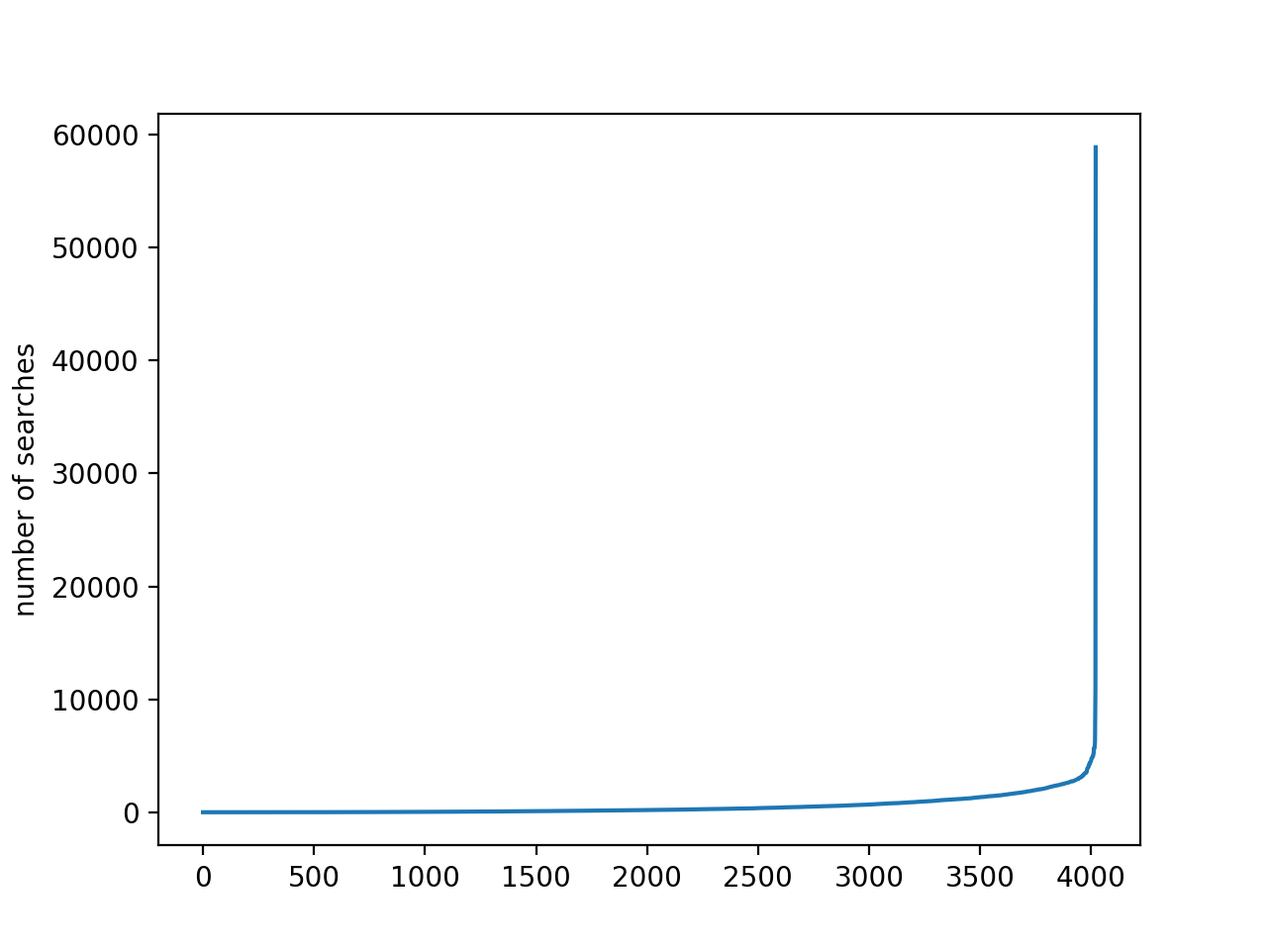
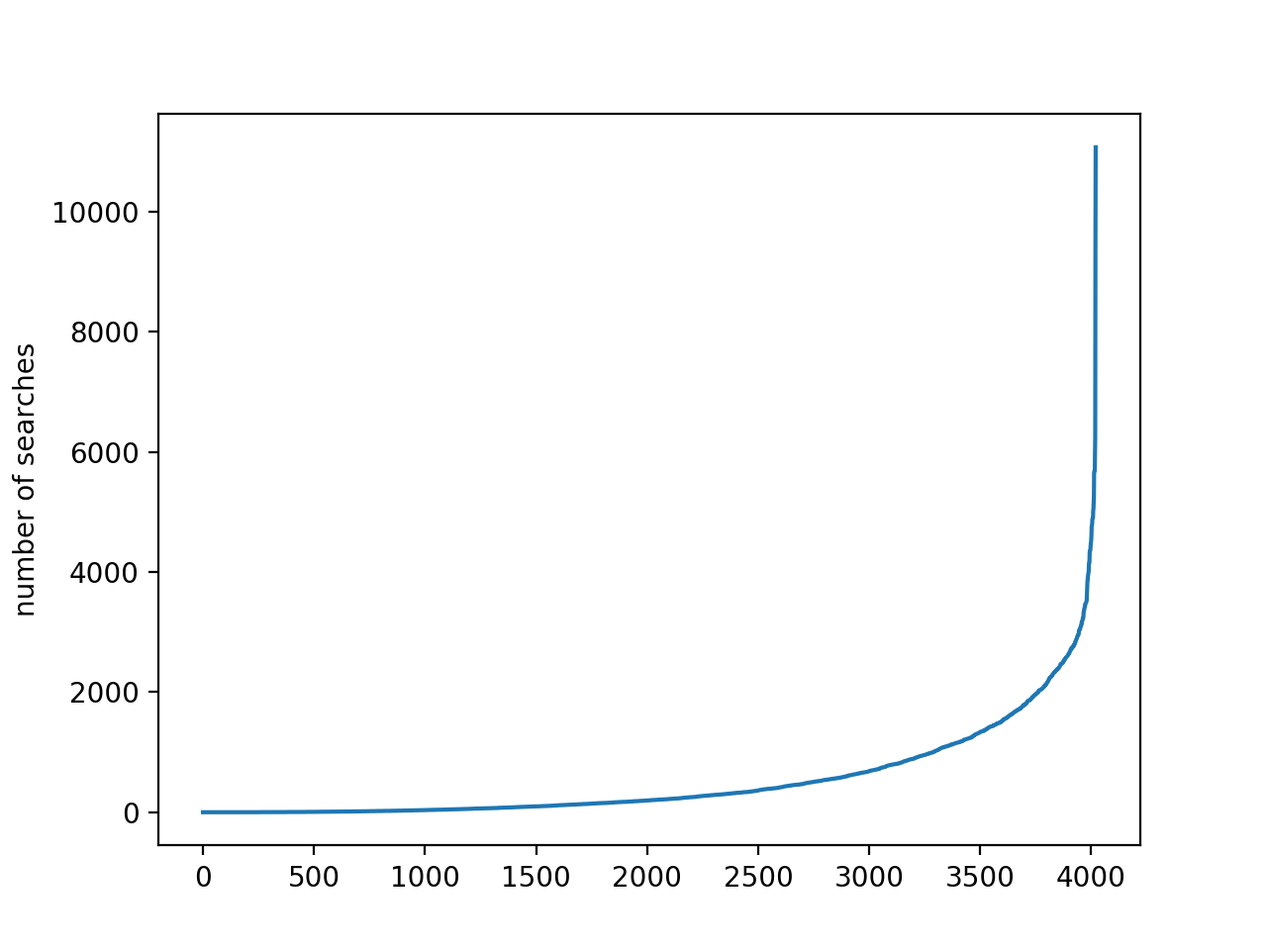
readme and a fig

diff --git a/plot.py b/plot.py
@@ -1,6 +1,6 @@
 import matplotlib.pyplot as plt
 # plt.plot([1,2,3,4])
-plt.plot([1, 1, 1, 1, 1, 1, 1, 1, 1, 1, 1, 1, 1, 1, 1, 1, 1, 1, 1, 1, 1, 1, 1, 1, 1, 1, 1, 1, 1, 1, 1, 1, 1, 1, 1, 1, 1, 1, 1, 1, 1, 1, 1, 1, 1, 1, 1, 1, 1, 1, 1, 1, 1, 1, 1, 1, 1, 1, 1, 1, 1, 1, 1, 1, 1, 1, 1, 1, 1, 1, 1, 1, 1, 1, 1, 1, 1, 1, 1, 1, 1, 1, 1, 1, 1, 1, 1, 1, 1, 1, 1, 1, 1, 1, 1, 1, 1, 1, 1, 1, 1, 1, 1, 1, 1, 1, 1, 1, 1, 1, 1, 1, 1, 1, 1, 1, 1, 1, 1, 1, 1, 1, 1, 1, 1, 1, 1, 1, 1, 1, 1, 1, 1, 1, 1, 1, 1, 1, 1, 1, 1, 1, 1, 1, 1, 1, 1, 1, 1, 1, 1, 1, 1, 1, 1, 1, 1, 1, 1, 1, 1, 1, 1, 2, 2, 2, 2, 2, 2, 2, 2, 2, 2, 2, 2, 2, 2, 2, 2, 2, 2, 2, 2, 2, 2, 2, 2, 2, 2, 2, 2, 2, 2, 2, 2, 2, 2, 2, 2, 2, 2, 2, 2, 2, 2, 2, 2, 2, 2, 2, 2, 2, 2, 2, 2, 2, 2, 2, 2, 2, 2, 2, 2, 2, 2, 2, 2, 2, 2, 2, 2, 2, 2, 2, 2, 2, 2, 2, 2, 2, 2, 2, 2, 2, 2, 2, 2, 2, 2, 2, 2, 2, 2, 2, 2, 3, 3, 3, 3, 3, 3, 3, 3, 3, 3, 3, 3, 3, 3, 3, 3, 3, 3, 3, 3, 3, 3, 3, 3, 3, 3, 3, 3, 3, 3, 3, 3, 3, 3, 3, 3, 3, 3, 3, 3, 3, 3, 3, 3, 3, 3, 3, 3, 3, 3, 3, 3, 3, 3, 3, 3, 3, 3, 3, 3, 3, 3, 4, 4, 4, 4, 4, 4, 4, 4, 4, 4, 4, 4, 4, 4, 4, 4, 4, 4, 4, 4, 4, 4, 4, 4, 4, 4, 4, 4, 4, 4, 4, 4, 4, 4, 4, 4, 4, 4, 4, 4, 4, 4, 4, 4, 4, 4, 4, 4, 4, 4, 4, 4, 4, 4, 4, 4, 4, 4, 4, 4, 4, 4, 5, 5, 5, 5, 5, 5, 5, 5, 5, 5, 5, 5, 5, 5, 5, 5, 5, 5, 5, 5, 5, 5, 5, 5, 5, 5, 5, 5, 5, 5, 5, 5, 5, 5, 5, 5, 5, 5, 5, 5, 5, 5, 5, 5, 5, 5, 5, 5, 5, 5, 5, 5, 5, 6, 6, 6, 6, 6, 6, 6, 6, 6, 6, 6, 6, 6, 6, 6, 6, 6, 6, 6, 6, 6, 6, 6, 6, 6, 6, 6, 6, 6, 6, 6, 7, 7, 7, 7, 7, 7, 7, 7, 7, 7, 7, 7, 7, 7, 7, 7, 7, 7, 7, 7, 7, 7, 7, 7, 7, 7, 7, 7, 7, 7, 7, 7, 8, 8, 8, 8, 8, 8, 8, 8, 8, 8, 8, 8, 8, 8, 8, 8, 8, 8, 8, 8, 8, 8, 8, 8, 8, 8, 8, 8, 8, 9, 9, 9, 9, 9, 9, 9, 9, 9, 9, 9, 9, 9, 9, 9, 9, 9, 9, 9, 9, 9, 9, 9, 9, 9, 9, 9, 9, 10, 10, 10, 10, 10, 10, 10, 10, 10, 10, 10, 10, 10, 10, 10, 10, 10, 10, 10, 10, 10, 10, 11, 11, 11, 11, 11, 11, 11, 11, 11, 11, 11, 11, 11, 11, 11, 11, 11, 11, 11, 11, 11, 11, 11, 11, 11, 11, 11, 11, 11, 12, 12, 12, 12, 12, 12, 12, 12, 12, 12, 12, 12, 12, 12, 12, 12, 12, 12, 12, 12, 12, 12, 12, 13, 13, 13, 13, 13, 13, 13, 13, 13, 13, 13, 13, 13, 13, 13, 13, 13, 13, 13, 13, 13, 13, 13, 14, 14, 14, 14, 14, 14, 14, 14, 14, 14, 14, 14, 14, 14, 14, 14, 14, 14, 14, 14, 14, 14, 14, 14, 14, 14, 15, 15, 15, 15, 15, 15, 15, 15, 15, 15, 15, 15, 15, 15, 15, 15, 15, 15, 15, 15, 16, 16, 16, 16, 16, 16, 16, 16, 16, 16, 16, 16, 16, 16, 16, 16, 16, 16, 16, 16, 17, 17, 17, 17, 17, 17, 17, 17, 17, 17, 17, 17, 17, 17, 17, 17, 18, 18, 18, 18, 18, 18, 18, 18, 18, 18, 18, 18, 18, 18, 18, 18, 18, 18, 19, 19, 19, 19, 19, 19, 19, 19, 19, 19, 19, 19, 19, 19, 19, 19, 20, 20, 20, 20, 20, 20, 20, 20, 20, 20, 20, 20, 20, 20, 20, 21, 21, 21, 21, 21, 21, 21, 21, 21, 21, 21, 21, 21, 21, 21, 21, 21, 21, 21, 22, 22, 22, 22, 22, 22, 22, 22, 22, 22, 22, 22, 22, 23, 23, 23, 23, 23, 23, 23, 23, 23, 23, 23, 23, 23, 24, 24, 24, 24, 24, 24, 24, 24, 24, 24, 24, 24, 24, 24, 24, 24, 24, 24, 24, 24, 24, 24, 25, 25, 25, 25, 25, 25, 25, 25, 25, 25, 25, 25, 25, 25, 25, 26, 26, 26, 26, 26, 26, 26, 26, 26, 26, 26, 27, 27, 27, 27, 27, 27, 27, 27, 27, 27, 27, 27, 28, 28, 28, 28, 28, 28, 28, 28, 28, 28, 28, 28, 28, 28, 29, 29, 29, 29, 29, 29, 29, 29, 30, 30, 30, 30, 30, 30, 30, 30, 30, 30, 30, 30, 30, 30, 30, 31, 31, 31, 31, 31, 31, 31, 31, 31, 31, 31, 31, 31, 31, 32, 32, 32, 32, 32, 32, 32, 32, 32, 32, 32, 33, 33, 33, 33, 33, 33, 33, 33, 33, 34, 34, 34, 34, 34, 34, 34, 34, 34, 34, 34, 34, 34, 34, 34, 34, 34, 35, 35, 35, 35, 35, 35, 35, 35, 35, 35, 35, 35, 35, 35, 36, 36, 36, 36, 36, 36, 36, 36, 36, 37, 37, 37, 37, 37, 37, 37, 37, 37, 37, 37, 37, 37, 38, 38, 38, 39, 39, 39, 39, 39, 39, 39, 39, 39, 39, 39, 39, 39, 39, 40, 40, 40, 40, 40, 40, 40, 40, 40, 41, 41, 41, 41, 41, 41, 41, 41, 41, 41, 41, 41, 41, 42, 42, 42, 42, 42, 42, 42, 42, 42, 43, 43, 43, 43, 43, 43, 43, 43, 43, 43, 43, 43, 44, 44, 44, 44, 44, 44, 44, 44, 44, 44, 44, 44, 44, 45, 45, 45, 45, 45, 45, 45, 45, 45, 45, 45, 46, 46, 46, 46, 46, 46, 46, 46, 47, 47, 47, 47, 47, 47, 47, 47, 47, 47, 48, 48, 48, 49, 49, 49, 49, 49, 49, 49, 49, 49, 49, 50, 50, 50, 50, 50, 50, 50, 50, 50, 50, 50, 50, 51, 51, 51, 51, 51, 51, 51, 51, 51, 51, 51, 52, 52, 52, 52, 52, 52, 52, 52, 52, 52, 53, 53, 53, 53, 53, 53, 53, 53, 53, 54, 54, 54, 54, 54, 54, 55, 55, 55, 55, 55, 55, 55, 55, 55, 55, 55, 55, 55, 56, 56, 56, 56, 56, 56, 56, 56, 57, 57, 57, 57, 57, 57, 57, 58, 58, 58, 58, 58, 58, 59, 59, 59, 59, 60, 60, 60, 60, 60, 60, 60, 61, 61, 61, 61, 61, 61, 61, 61, 61, 61, 62, 62, 62, 62, 62, 62, 62, 62, 62, 63, 63, 63, 64, 64, 64, 64, 64, 64, 64, 64, 64, 64, 64, 64, 64, 65, 65, 65, 65, 65, 65, 65, 66, 66, 66, 66, 66, 66, 66, 66, 66, 66, 66, 67, 67, 67, 67, 67, 67, 67, 67, 67, 68, 68, 68, 68, 68, 68, 68, 68, 68, 68, 68, 68, 68, 68, 69, 69, 69, 69, 69, 70, 70, 70, 70, 70, 70, 70, 70, 70, 70, 70, 71, 71, 71, 71, 71, 71, 71, 71, 72, 72, 72, 72, 72, 72, 72, 72, 72, 72, 72, 72, 72, 74, 75, 75, 75, 75, 75, 75, 76, 76, 76, 76, 76, 76, 77, 77, 77, 77, 77, 77, 77, 77, 77, 77, 77, 77, 78, 78, 78, 78, 78, 78, 78, 78, 78, 78, 79, 79, 79, 80, 80, 80, 80, 80, 80, 80, 80, 80, 80, 81, 81, 81, 81, 81, 81, 81, 81, 81, 81, 82, 82, 82, 82, 82, 82, 83, 83, 83, 83, 83, 84, 84, 84, 84, 85, 85, 85, 85, 85, 85, 85, 85, 86, 86, 86, 86, 87, 87, 87, 87, 87, 87, 87, 88, 88, 88, 88, 89, 89, 89, 89, 89, 89, 89, 90, 90, 90, 90, 90, 90, 90, 90, 90, 91, 91, 91, 91, 91, 91, 91, 91, 91, 91, 92, 92, 92, 93, 93, 93, 93, 93, 93, 93, 94, 94, 94, 94, 94, 95, 95, 95, 95, 95, 95, 95, 95, 95, 95, 96, 96, 96, 96, 96, 97, 97, 97, 97, 97, 97, 97, 97, 97, 98, 98, 98, 98, 98, 98, 98, 99, 99, 99, 99, 99, 99, 100, 100, 100, 100, 100, 100, 100, 100, 100, 100, 100, 100, 100, 101, 101, 101, 101, 101, 101, 102, 102, 102, 102, 103, 103, 103, 103, 103, 103, 103, 104, 104, 104, 104, 104, 105, 105, 105, 105, 105, 105, 105, 106, 106, 106, 106, 106, 106, 106, 106, 107, 107, 107, 107, 107, 108, 108, 108, 108, 108, 108, 109, 109, 109, 109, 109, 110, 110, 110, 110, 110, 110, 110, 111, 111, 111, 111, 112, 112, 112, 113, 113, 113, 113, 114, 114, 114, 114, 114, 114, 115, 115, 116, 116, 116, 117, 117, 117, 117, 117, 118, 118, 118, 118, 118, 118, 119, 119, 119, 119, 119, 120, 120, 120, 120, 120, 120, 120, 121, 121, 121, 121, 121, 121, 121, 122, 122, 122, 122, 122, 122, 123, 123, 123, 124, 124, 124, 124, 124, 125, 125, 125, 125, 125, 126, 126, 126, 126, 126, 127, 127, 127, 127, 127, 127, 127, 127, 127, 128, 128, 128, 128, 128, 128, 128, 128, 128, 128, 129, 129, 129, 129, 129, 129, 129, 130, 130, 131, 131, 131, 132, 132, 132, 132, 133, 133, 133, 133, 133, 133, 133, 134, 134, 134, 134, 134, 134, 135, 135, 135, 135, 135, 136, 137, 137, 137, 137, 137, 137, 137, 137, 137, 138, 138, 138, 138, 138, 138, 139, 139, 139, 139, 139, 139, 139, 139, 139, 139, 139, 140, 141, 141, 141, 141, 142, 142, 142, 143, 143, 143, 143, 144, 144, 144, 144, 145, 145, 145, 146, 146, 146, 147, 147, 147, 147, 147, 147, 147, 147, 147, 147, 148, 148, 148, 148, 148, 149, 149, 149, 149, 149, 150, 150, 150, 151, 151, 151, 151, 151, 151, 151, 152, 152, 152, 153, 153, 153, 153, 153, 153, 153, 154, 154, 154, 154, 154, 154, 155, 155, 155, 155, 155, 155, 155, 155, 155, 156, 156, 156, 156, 156, 156, 156, 157, 157, 157, 157, 157, 157, 158, 158, 158, 159, 159, 159, 159, 159, 159, 160, 160, 160, 161, 161, 161, 161, 162, 162, 162, 162, 163, 163, 163, 163, 164, 164, 164, 165, 165, 165, 166, 166, 166, 166, 167, 167, 167, 168, 168, 168, 168, 168, 168, 168, 168, 168, 168, 169, 170, 170, 170, 170, 170, 170, 171, 171, 171, 171, 171, 171, 172, 172, 172, 172, 172, 173, 173, 173, 174, 174, 174, 174, 174, 174, 174, 174, 175, 175, 175, 175, 175, 175, 175, 175, 175, 176, 176, 176, 176, 176, 177, 178, 178, 178, 178, 178, 178, 179, 179, 179, 179, 179, 179, 180, 180, 180, 180, 180, 180, 180, 180, 180, 181, 182, 182, 183, 183, 184, 184, 185, 185, 185, 185, 185, 185, 185, 185, 186, 186, 186, 186, 186, 186, 187, 187, 187, 187, 188, 188, 188, 188, 189, 189, 189, 190, 190, 190, 191, 191, 191, 191, 191, 191, 191, 192, 192, 192, 192, 192, 192, 192, 192, 193, 193, 195, 195, 195, 195, 195, 195, 195, 196, 196, 197, 197, 197, 198, 198, 198, 198, 198, 198, 198, 198, 199, 199, 199, 200, 200, 200, 200, 201, 202, 202, 202, 202, 202, 203, 203, 203, 204, 204, 204, 204, 205, 205, 205, 205, 205, 205, 205, 206, 206, 206, 206, 206, 207, 207, 207, 208, 208, 208, 209, 209, 209, 210, 210, 210, 210, 210, 211, 211, 211, 211, 212, 212, 212, 212, 212, 213, 213, 213, 213, 213, 213, 213, 213, 214, 214, 214, 214, 214, 215, 215, 216, 216, 216, 216, 216, 217, 217, 217, 217, 217, 218, 218, 218, 218, 219, 219, 219, 219, 220, 221, 221, 221, 221, 222, 222, 222, 223, 223, 223, 223, 224, 224, 224, 225, 225, 225, 226, 226, 226, 226, 226, 227, 227, 227, 227, 228, 228, 228, 229, 229, 229, 229, 229, 229, 230, 230, 230, 230, 230, 230, 231, 231, 231, 231, 233, 233, 233, 233, 234, 234, 234, 235, 235, 235, 235, 235, 235, 236, 236, 237, 238, 239, 239, 239, 240, 241, 241, 242, 242, 242, 242, 242, 243, 243, 243, 243, 244, 245, 245, 246, 246, 246, 247, 247, 247, 247, 247, 248, 248, 248, 249, 249, 249, 250, 251, 251, 251, 251, 251, 252, 252, 252, 252, 252, 253, 253, 253, 253, 254, 254, 254, 254, 255, 255, 256, 256, 256, 256, 256, 257, 257, 257, 258, 258, 258, 259, 260, 260, 261, 262, 263, 263, 264, 264, 264, 264, 266, 266, 267, 267, 267, 268, 268, 268, 269, 269, 269, 269, 270, 270, 271, 271, 272, 272, 272, 272, 273, 273, 274, 274, 274, 274, 275, 275, 276, 276, 276, 277, 277, 277, 278, 278, 278, 278, 278, 278, 279, 279, 279, 280, 280, 281, 281, 282, 282, 282, 282, 283, 284, 284, 284, 284, 284, 285, 285, 285, 286, 286, 286, 287, 287, 287, 288, 288, 289, 289, 290, 290, 290, 290, 291, 291, 292, 292, 292, 292, 292, 292, 292, 293, 293, 293, 293, 293, 293, 295, 295, 296, 296, 296, 296, 296, 296, 296, 297, 297, 298, 298, 298, 298, 299, 299, 299, 300, 300, 301, 301, 301, 301, 302, 302, 302, 302, 303, 304, 304, 305, 305, 305, 306, 307, 307, 307, 307, 308, 309, 309, 309, 309, 309, 310, 310, 310, 311, 311, 311, 311, 312, 312, 314, 314, 315, 315, 315, 316, 316, 316, 316, 317, 317, 318, 318, 318, 318, 319, 319, 319, 320, 320, 321, 321, 321, 322, 323, 323, 324, 324, 324, 324, 325, 325, 325, 326, 326, 326, 326, 326, 327, 327, 327, 327, 327, 327, 327, 328, 329, 329, 330, 330, 330, 331, 331, 331, 333, 333, 334, 334, 334, 334, 335, 335, 336, 336, 336, 336, 336, 337, 337, 337, 337, 338, 338, 338, 338, 339, 339, 339, 340, 340, 341, 341, 341, 341, 343, 343, 343, 343, 345, 345, 345, 346, 346, 348, 348, 348, 349, 349, 349, 349, 350, 351, 351, 352, 352, 352, 354, 354, 355, 355, 356, 356, 357, 357, 357, 357, 359, 360, 360, 361, 361, 361, 362, 362, 364, 365, 365, 366, 368, 369, 370, 371, 371, 372, 373, 374, 374, 374, 375, 375, 375, 376, 377, 378, 378, 380, 381, 381, 382, 382, 382, 382, 382, 383, 383, 383, 384, 385, 385, 387, 387, 388, 388, 388, 388, 389, 390, 390, 391, 391, 391, 391, 391, 392, 392, 392, 393, 393, 393, 393, 394, 394, 395, 395, 395, 395, 397, 397, 397, 397, 398, 398, 398, 399, 399, 399, 400, 401, 401, 401, 402, 402, 402, 403, 403, 403, 403, 404, 405, 405, 406, 407, 408, 408, 408, 408, 408, 410, 411, 414, 414, 415, 416, 416, 416, 417, 417, 418, 419, 419, 419, 420, 421, 422, 424, 425, 426, 426, 426, 427, 428, 429, 431, 431, 431, 432, 434, 434, 435, 435, 435, 436, 436, 436, 437, 438, 439, 439, 441, 441, 441, 442, 442, 442, 442, 443, 444, 444, 445, 445, 445, 446, 448, 448, 449, 450, 450, 451, 451, 452, 452, 452, 453, 453, 454, 455, 455, 455, 455, 456, 456, 457, 458, 458, 458, 459, 459, 459, 459, 460, 460, 460, 460, 461, 461, 461, 461, 461, 462, 462, 463, 464, 465, 465, 466, 467, 467, 468, 468, 468, 468, 470, 471, 472, 472, 472, 473, 474, 475, 476, 476, 476, 479, 480, 481, 482, 482, 484, 484, 485, 486, 487, 488, 488, 489, 490, 490, 492, 492, 493, 494, 494, 495, 495, 495, 495, 495, 496, 496, 497, 500, 501, 501, 501, 501, 501, 501, 502, 502, 503, 503, 506, 506, 508, 509, 509, 510, 510, 510, 511, 511, 512, 513, 513, 514, 514, 514, 514, 515, 515, 515, 515, 517, 517, 520, 520, 520, 520, 520, 521, 521, 521, 522, 522, 523, 523, 524, 524, 526, 528, 528, 529, 530, 530, 532, 532, 534, 535, 535, 536, 537, 537, 538, 538, 539, 539, 540, 541, 541, 541, 542, 542, 542, 543, 543, 543, 543, 545, 546, 546, 547, 547, 548, 548, 548, 549, 549, 550, 550, 551, 554, 555, 555, 555, 556, 556, 557, 557, 557, 558, 559, 559, 560, 560, 561, 561, 561, 561, 561, 563, 563, 563, 563, 564, 565, 568, 568, 569, 569, 570, 570, 570, 570, 570, 570, 570, 571, 572, 573, 574, 574, 574, 577, 578, 579, 579, 579, 579, 580, 582, 582, 582, 583, 583, 584, 586, 586, 586, 589, 590, 592, 592, 593, 593, 593, 594, 594, 594, 595, 596, 598, 598, 599, 601, 602, 606, 606, 606, 608, 609, 611, 611, 613, 613, 615, 615, 616, 616, 618, 618, 618, 618, 619, 620, 620, 622, 623, 624, 624, 626, 627, 628, 629, 631, 631, 631, 632, 632, 632, 632, 632, 633, 634, 636, 637, 638, 638, 639, 640, 640, 641, 641, 642, 643, 645, 646, 649, 649, 650, 650, 650, 651, 651, 652, 652, 655, 655, 655, 656, 658, 658, 658, 659, 659, 661, 661, 661, 662, 663, 663, 665, 665, 665, 666, 667, 667, 667, 668, 669, 669, 670, 671, 672, 672, 672, 673, 675, 676, 677, 678, 679, 680, 680, 681, 683, 684, 688, 690, 690, 692, 693, 693, 694, 695, 696, 698, 698, 699, 699, 699, 700, 701, 702, 702, 703, 703, 704, 706, 706, 706, 707, 708, 709, 712, 712, 712, 713, 714, 715, 715, 715, 715, 716, 717, 719, 719, 721, 724, 726, 726, 726, 728, 733, 733, 735, 736, 738, 739, 741, 741, 744, 745, 745, 746, 747, 748, 748, 749, 749, 751, 752, 752, 752, 753, 754, 755, 756, 756, 760, 762, 768, 769, 769, 771, 774, 775, 775, 776, 777, 777, 780, 780, 782, 783, 785, 785, 785, 787, 787, 787, 788, 789, 789, 791, 792, 793, 795, 795, 796, 796, 796, 796, 797, 798, 799, 800, 800, 800, 801, 801, 802, 802, 804, 805, 805, 805, 806, 808, 808, 808, 808, 808, 809, 811, 811, 814, 814, 814, 817, 818, 818, 818, 820, 823, 824, 824, 826, 827, 830, 830, 830, 831, 832, 834, 835, 838, 840, 842, 843, 845, 846, 847, 850, 853, 853, 853, 853, 855, 855, 855, 856, 858, 859, 860, 863, 865, 865, 866, 866, 868, 869, 873, 874, 876, 879, 879, 879, 879, 880, 880, 882, 882, 883, 886, 886, 886, 887, 887, 888, 888, 888, 889, 889, 892, 895, 895, 897, 897, 899, 899, 900, 901, 905, 911, 912, 913, 913, 915, 916, 917, 917, 917, 919, 920, 922, 926, 927, 927, 928, 928, 930, 930, 933, 936, 938, 938, 938, 939, 939, 940, 942, 943, 943, 945, 945, 946, 948, 948, 949, 950, 951, 953, 954, 954, 956, 956, 956, 958, 961, 962, 962, 964, 964, 967, 968, 969, 971, 971, 971, 973, 976, 977, 977, 980, 980, 982, 984, 984, 986, 987, 988, 989, 990, 991, 991, 991, 993, 993, 996, 997, 998, 1002, 1003, 1003, 1005, 1007, 1007, 1010, 1010, 1012, 1017, 1018, 1021, 1024, 1025, 1026, 1026, 1028, 1029, 1030, 1032, 1033, 1034, 1037, 1042, 1043, 1043, 1046, 1048, 1050, 1051, 1052, 1053, 1058, 1060, 1063, 1066, 1069, 1070, 1071, 1073, 1073, 1073, 1075, 1077, 1079, 1080, 1081, 1081, 1081, 1084, 1084, 1087, 1088, 1090, 1090, 1090, 1090, 1093, 1095, 1096, 1096, 1098, 1099, 1099, 1101, 1101, 1104, 1107, 1107, 1107, 1108, 1108, 1109, 1111, 1111, 1115, 1118, 1119, 1120, 1121, 1122, 1125, 1125, 1126, 1126, 1131, 1132, 1133, 1133, 1133, 1135, 1137, 1137, 1137, 1138, 1140, 1143, 1143, 1144, 1147, 1149, 1152, 1152, 1153, 1154, 1154, 1155, 1156, 1158, 1159, 1159, 1160, 1160, 1161, 1162, 1163, 1165, 1166, 1168, 1169, 1169, 1173, 1173, 1175, 1177, 1177, 1178, 1178, 1182, 1182, 1183, 1184, 1185, 1187, 1187, 1188, 1189, 1198, 1202, 1205, 1207, 1207, 1207, 1210, 1210, 1211, 1211, 1214, 1215, 1216, 1217, 1217, 1219, 1221, 1221, 1222, 1224, 1226, 1228, 1229, 1230, 1231, 1232, 1233, 1234, 1235, 1235, 1238, 1240, 1243, 1244, 1244, 1244, 1245, 1245, 1249, 1250, 1253, 1262, 1264, 1269, 1272, 1273, 1273, 1274, 1276, 1279, 1286, 1287, 1290, 1291, 1296, 1298, 1300, 1302, 1303, 1305, 1305, 1306, 1308, 1311, 1312, 1312, 1317, 1317, 1319, 1320, 1321, 1321, 1326, 1328, 1331, 1332, 1337, 1338, 1342, 1342, 1343, 1343, 1346, 1347, 1347, 1348, 1349, 1352, 1353, 1354, 1355, 1355, 1355, 1361, 1361, 1365, 1366, 1371, 1371, 1373, 1376, 1379, 1379, 1382, 1384, 1384, 1393, 1394, 1396, 1398, 1400, 1402, 1403, 1407, 1411, 1411, 1414, 1419, 1422, 1424, 1425, 1426, 1426, 1426, 1427, 1428, 1430, 1431, 1431, 1432, 1433, 1435, 1436, 1437, 1441, 1441, 1447, 1448, 1452, 1452, 1453, 1454, 1455, 1458, 1462, 1464, 1466, 1468, 1468, 1468, 1468, 1476, 1477, 1478, 1479, 1480, 1481, 1484, 1485, 1486, 1486, 1489, 1489, 1495, 1496, 1496, 1498, 1498, 1499, 1504, 1510, 1510, 1514, 1515, 1516, 1521, 1523, 1524, 1534, 1536, 1539, 1544, 1545, 1554, 1555, 1555, 1556, 1557, 1557, 1559, 1562, 1565, 1565, 1565, 1567, 1576, 1577, 1578, 1578, 1580, 1583, 1588, 1597, 1599, 1600, 1604, 1609, 1609, 1611, 1614, 1615, 1618, 1622, 1622, 1626, 1627, 1628, 1630, 1633, 1633, 1639, 1641, 1647, 1648, 1651, 1656, 1659, 1664, 1665, 1666, 1669, 1673, 1674, 1675, 1681, 1684, 1684, 1685, 1687, 1690, 1692, 1697, 1697, 1699, 1701, 1707, 1710, 1711, 1713, 1713, 1714, 1716, 1719, 1719, 1723, 1724, 1724, 1725, 1727, 1734, 1739, 1745, 1751, 1752, 1755, 1756, 1762, 1768, 1770, 1772, 1773, 1781, 1782, 1782, 1792, 1792, 1793, 1795, 1795, 1798, 1805, 1806, 1808, 1818, 1819, 1823, 1826, 1831, 1842, 1851, 1853, 1854, 1855, 1857, 1858, 1860, 1862, 1864, 1864, 1865, 1865, 1875, 1877, 1879, 1880, 1885, 1892, 1897, 1900, 1903, 1916, 1918, 1918, 1921, 1923, 1930, 1934, 1934, 1938, 1945, 1949, 1951, 1954, 1958, 1962, 1964, 1964, 1964, 1967, 1978, 1983, 1985, 1986, 1990, 1990, 1992, 1997, 1998, 2004, 2023, 2023, 2028, 2032, 2033, 2034, 2035, 2036, 2036, 2038, 2040, 2042, 2045, 2052, 2054, 2057, 2058, 2062, 2068, 2070, 2074, 2079, 2080, 2084, 2093, 2102, 2102, 2104, 2110, 2110, 2112, 2114, 2126, 2126, 2136, 2143, 2146, 2147, 2154, 2167, 2171, 2177, 2177, 2187, 2194, 2203, 2211, 2216, 2229, 2229, 2231, 2240, 2248, 2251, 2253, 2253, 2255, 2257, 2261, 2266, 2274, 2285, 2286, 2288, 2297, 2301, 2307, 2318, 2321, 2322, 2325, 2329, 2336, 2336, 2342, 2351, 2353, 2353, 2358, 2364, 2368, 2368, 2370, 2380, 2380, 2387, 2389, 2391, 2394, 2394, 2403, 2404, 2411, 2416, 2421, 2424, 2433, 2449, 2459, 2466, 2467, 2469, 2470, 2476, 2477, 2480, 2481, 2483, 2483, 2494, 2498, 2500, 2519, 2521, 2525, 2537, 2538, 2542, 2544, 2556, 2557, 2563, 2573, 2576, 2577, 2582, 2587, 2591, 2594, 2597, 2602, 2608, 2614, 2623, 2635, 2637, 2639, 2640, 2651, 2655, 2670, 2679, 2687, 2691, 2712, 2713, 2720, 2722, 2724, 2728, 2729, 2731, 2753, 2753, 2757, 2758, 2759, 2765, 2773, 2786, 2786, 2795, 2801, 2802, 2826, 2833, 2847, 2851, 2853, 2870, 2878, 2890, 2894, 2907, 2920, 2937, 2939, 2945, 2951, 2957, 2958, 2984, 3029, 3032, 3040, 3044, 3046, 3047, 3072, 3084, 3090, 3111, 3112, 3119, 3164, 3164, 3180, 3203, 3210, 3220, 3231, 3233, 3271, 3336, 3347, 3377, 3383, 3407, 3437, 3444, 3446, 3472, 3479, 3483, 3495, 3503, 3510, 3559, 3653, 3754, 3849, 3863, 3926, 3956, 3976, 3997, 4037, 4153, 4154, 4164, 4326, 4355, 4357, 4363, 4437, 4475, 4497, 4544, 4626, 4758, 4772, 4796, 4871, 4890, 4901, 4905, 5032, 5048, 5155, 5250, 5656, 5676, 5679, 5685, 6040, 6256, 9456, 11071, 58888])
+plt.plot([1, 1, 1, 1, 1, 1, 1, 1, 1, 1, 1, 1, 1, 1, 1, 1, 1, 1, 1, 1, 1, 1, 1, 1, 1, 1, 1, 1, 1, 1, 1, 1, 1, 1, 1, 1, 1, 1, 1, 1, 1, 1, 1, 1, 1, 1, 1, 1, 1, 1, 1, 1, 1, 1, 1, 1, 1, 1, 1, 1, 1, 1, 1, 1, 1, 1, 1, 1, 1, 1, 1, 1, 1, 1, 1, 1, 1, 1, 1, 1, 1, 1, 1, 1, 1, 1, 1, 1, 1, 1, 1, 1, 1, 1, 1, 1, 1, 1, 1, 1, 1, 1, 1, 1, 1, 1, 1, 1, 1, 1, 1, 1, 1, 1, 1, 1, 1, 1, 1, 1, 1, 1, 1, 1, 1, 1, 1, 1, 1, 1, 1, 1, 1, 1, 1, 1, 1, 1, 1, 1, 1, 1, 1, 1, 1, 1, 1, 1, 1, 1, 1, 1, 1, 1, 1, 1, 1, 1, 1, 1, 1, 1, 1, 2, 2, 2, 2, 2, 2, 2, 2, 2, 2, 2, 2, 2, 2, 2, 2, 2, 2, 2, 2, 2, 2, 2, 2, 2, 2, 2, 2, 2, 2, 2, 2, 2, 2, 2, 2, 2, 2, 2, 2, 2, 2, 2, 2, 2, 2, 2, 2, 2, 2, 2, 2, 2, 2, 2, 2, 2, 2, 2, 2, 2, 2, 2, 2, 2, 2, 2, 2, 2, 2, 2, 2, 2, 2, 2, 2, 2, 2, 2, 2, 2, 2, 2, 2, 2, 2, 2, 2, 2, 2, 2, 2, 3, 3, 3, 3, 3, 3, 3, 3, 3, 3, 3, 3, 3, 3, 3, 3, 3, 3, 3, 3, 3, 3, 3, 3, 3, 3, 3, 3, 3, 3, 3, 3, 3, 3, 3, 3, 3, 3, 3, 3, 3, 3, 3, 3, 3, 3, 3, 3, 3, 3, 3, 3, 3, 3, 3, 3, 3, 3, 3, 3, 3, 3, 4, 4, 4, 4, 4, 4, 4, 4, 4, 4, 4, 4, 4, 4, 4, 4, 4, 4, 4, 4, 4, 4, 4, 4, 4, 4, 4, 4, 4, 4, 4, 4, 4, 4, 4, 4, 4, 4, 4, 4, 4, 4, 4, 4, 4, 4, 4, 4, 4, 4, 4, 4, 4, 4, 4, 4, 4, 4, 4, 4, 4, 4, 5, 5, 5, 5, 5, 5, 5, 5, 5, 5, 5, 5, 5, 5, 5, 5, 5, 5, 5, 5, 5, 5, 5, 5, 5, 5, 5, 5, 5, 5, 5, 5, 5, 5, 5, 5, 5, 5, 5, 5, 5, 5, 5, 5, 5, 5, 5, 5, 5, 5, 5, 5, 5, 6, 6, 6, 6, 6, 6, 6, 6, 6, 6, 6, 6, 6, 6, 6, 6, 6, 6, 6, 6, 6, 6, 6, 6, 6, 6, 6, 6, 6, 6, 6, 7, 7, 7, 7, 7, 7, 7, 7, 7, 7, 7, 7, 7, 7, 7, 7, 7, 7, 7, 7, 7, 7, 7, 7, 7, 7, 7, 7, 7, 7, 7, 7, 8, 8, 8, 8, 8, 8, 8, 8, 8, 8, 8, 8, 8, 8, 8, 8, 8, 8, 8, 8, 8, 8, 8, 8, 8, 8, 8, 8, 8, 9, 9, 9, 9, 9, 9, 9, 9, 9, 9, 9, 9, 9, 9, 9, 9, 9, 9, 9, 9, 9, 9, 9, 9, 9, 9, 9, 9, 10, 10, 10, 10, 10, 10, 10, 10, 10, 10, 10, 10, 10, 10, 10, 10, 10, 10, 10, 10, 10, 10, 11, 11, 11, 11, 11, 11, 11, 11, 11, 11, 11, 11, 11, 11, 11, 11, 11, 11, 11, 11, 11, 11, 11, 11, 11, 11, 11, 11, 11, 12, 12, 12, 12, 12, 12, 12, 12, 12, 12, 12, 12, 12, 12, 12, 12, 12, 12, 12, 12, 12, 12, 12, 13, 13, 13, 13, 13, 13, 13, 13, 13, 13, 13, 13, 13, 13, 13, 13, 13, 13, 13, 13, 13, 13, 13, 14, 14, 14, 14, 14, 14, 14, 14, 14, 14, 14, 14, 14, 14, 14, 14, 14, 14, 14, 14, 14, 14, 14, 14, 14, 14, 15, 15, 15, 15, 15, 15, 15, 15, 15, 15, 15, 15, 15, 15, 15, 15, 15, 15, 15, 15, 16, 16, 16, 16, 16, 16, 16, 16, 16, 16, 16, 16, 16, 16, 16, 16, 16, 16, 16, 16, 17, 17, 17, 17, 17, 17, 17, 17, 17, 17, 17, 17, 17, 17, 17, 17, 18, 18, 18, 18, 18, 18, 18, 18, 18, 18, 18, 18, 18, 18, 18, 18, 18, 18, 19, 19, 19, 19, 19, 19, 19, 19, 19, 19, 19, 19, 19, 19, 19, 19, 20, 20, 20, 20, 20, 20, 20, 20, 20, 20, 20, 20, 20, 20, 20, 21, 21, 21, 21, 21, 21, 21, 21, 21, 21, 21, 21, 21, 21, 21, 21, 21, 21, 21, 22, 22, 22, 22, 22, 22, 22, 22, 22, 22, 22, 22, 22, 23, 23, 23, 23, 23, 23, 23, 23, 23, 23, 23, 23, 23, 24, 24, 24, 24, 24, 24, 24, 24, 24, 24, 24, 24, 24, 24, 24, 24, 24, 24, 24, 24, 24, 24, 25, 25, 25, 25, 25, 25, 25, 25, 25, 25, 25, 25, 25, 25, 25, 26, 26, 26, 26, 26, 26, 26, 26, 26, 26, 26, 27, 27, 27, 27, 27, 27, 27, 27, 27, 27, 27, 27, 28, 28, 28, 28, 28, 28, 28, 28, 28, 28, 28, 28, 28, 28, 29, 29, 29, 29, 29, 29, 29, 29, 30, 30, 30, 30, 30, 30, 30, 30, 30, 30, 30, 30, 30, 30, 30, 31, 31, 31, 31, 31, 31, 31, 31, 31, 31, 31, 31, 31, 31, 32, 32, 32, 32, 32, 32, 32, 32, 32, 32, 32, 33, 33, 33, 33, 33, 33, 33, 33, 33, 34, 34, 34, 34, 34, 34, 34, 34, 34, 34, 34, 34, 34, 34, 34, 34, 34, 35, 35, 35, 35, 35, 35, 35, 35, 35, 35, 35, 35, 35, 35, 36, 36, 36, 36, 36, 36, 36, 36, 36, 37, 37, 37, 37, 37, 37, 37, 37, 37, 37, 37, 37, 37, 38, 38, 38, 39, 39, 39, 39, 39, 39, 39, 39, 39, 39, 39, 39, 39, 39, 40, 40, 40, 40, 40, 40, 40, 40, 40, 41, 41, 41, 41, 41, 41, 41, 41, 41, 41, 41, 41, 41, 42, 42, 42, 42, 42, 42, 42, 42, 42, 43, 43, 43, 43, 43, 43, 43, 43, 43, 43, 43, 43, 44, 44, 44, 44, 44, 44, 44, 44, 44, 44, 44, 44, 44, 45, 45, 45, 45, 45, 45, 45, 45, 45, 45, 45, 46, 46, 46, 46, 46, 46, 46, 46, 47, 47, 47, 47, 47, 47, 47, 47, 47, 47, 48, 48, 48, 49, 49, 49, 49, 49, 49, 49, 49, 49, 49, 50, 50, 50, 50, 50, 50, 50, 50, 50, 50, 50, 50, 51, 51, 51, 51, 51, 51, 51, 51, 51, 51, 51, 52, 52, 52, 52, 52, 52, 52, 52, 52, 52, 53, 53, 53, 53, 53, 53, 53, 53, 53, 54, 54, 54, 54, 54, 54, 55, 55, 55, 55, 55, 55, 55, 55, 55, 55, 55, 55, 55, 56, 56, 56, 56, 56, 56, 56, 56, 57, 57, 57, 57, 57, 57, 57, 58, 58, 58, 58, 58, 58, 59, 59, 59, 59, 60, 60, 60, 60, 60, 60, 60, 61, 61, 61, 61, 61, 61, 61, 61, 61, 61, 62, 62, 62, 62, 62, 62, 62, 62, 62, 63, 63, 63, 64, 64, 64, 64, 64, 64, 64, 64, 64, 64, 64, 64, 64, 65, 65, 65, 65, 65, 65, 65, 66, 66, 66, 66, 66, 66, 66, 66, 66, 66, 66, 67, 67, 67, 67, 67, 67, 67, 67, 67, 68, 68, 68, 68, 68, 68, 68, 68, 68, 68, 68, 68, 68, 68, 69, 69, 69, 69, 69, 70, 70, 70, 70, 70, 70, 70, 70, 70, 70, 70, 71, 71, 71, 71, 71, 71, 71, 71, 72, 72, 72, 72, 72, 72, 72, 72, 72, 72, 72, 72, 72, 74, 75, 75, 75, 75, 75, 75, 76, 76, 76, 76, 76, 76, 77, 77, 77, 77, 77, 77, 77, 77, 77, 77, 77, 77, 78, 78, 78, 78, 78, 78, 78, 78, 78, 78, 79, 79, 79, 80, 80, 80, 80, 80, 80, 80, 80, 80, 80, 81, 81, 81, 81, 81, 81, 81, 81, 81, 81, 82, 82, 82, 82, 82, 82, 83, 83, 83, 83, 83, 84, 84, 84, 84, 85, 85, 85, 85, 85, 85, 85, 85, 86, 86, 86, 86, 87, 87, 87, 87, 87, 87, 87, 88, 88, 88, 88, 89, 89, 89, 89, 89, 89, 89, 90, 90, 90, 90, 90, 90, 90, 90, 90, 91, 91, 91, 91, 91, 91, 91, 91, 91, 91, 92, 92, 92, 93, 93, 93, 93, 93, 93, 93, 94, 94, 94, 94, 94, 95, 95, 95, 95, 95, 95, 95, 95, 95, 95, 96, 96, 96, 96, 96, 97, 97, 97, 97, 97, 97, 97, 97, 97, 98, 98, 98, 98, 98, 98, 98, 99, 99, 99, 99, 99, 99, 100, 100, 100, 100, 100, 100, 100, 100, 100, 100, 100, 100, 100, 101, 101, 101, 101, 101, 101, 102, 102, 102, 102, 103, 103, 103, 103, 103, 103, 103, 104, 104, 104, 104, 104, 105, 105, 105, 105, 105, 105, 105, 106, 106, 106, 106, 106, 106, 106, 106, 107, 107, 107, 107, 107, 108, 108, 108, 108, 108, 108, 109, 109, 109, 109, 109, 110, 110, 110, 110, 110, 110, 110, 111, 111, 111, 111, 112, 112, 112, 113, 113, 113, 113, 114, 114, 114, 114, 114, 114, 115, 115, 116, 116, 116, 117, 117, 117, 117, 117, 118, 118, 118, 118, 118, 118, 119, 119, 119, 119, 119, 120, 120, 120, 120, 120, 120, 120, 121, 121, 121, 121, 121, 121, 121, 122, 122, 122, 122, 122, 122, 123, 123, 123, 124, 124, 124, 124, 124, 125, 125, 125, 125, 125, 126, 126, 126, 126, 126, 127, 127, 127, 127, 127, 127, 127, 127, 127, 128, 128, 128, 128, 128, 128, 128, 128, 128, 128, 129, 129, 129, 129, 129, 129, 129, 130, 130, 131, 131, 131, 132, 132, 132, 132, 133, 133, 133, 133, 133, 133, 133, 134, 134, 134, 134, 134, 134, 135, 135, 135, 135, 135, 136, 137, 137, 137, 137, 137, 137, 137, 137, 137, 138, 138, 138, 138, 138, 138, 139, 139, 139, 139, 139, 139, 139, 139, 139, 139, 139, 140, 141, 141, 141, 141, 142, 142, 142, 143, 143, 143, 143, 144, 144, 144, 144, 145, 145, 145, 146, 146, 146, 147, 147, 147, 147, 147, 147, 147, 147, 147, 147, 148, 148, 148, 148, 148, 149, 149, 149, 149, 149, 150, 150, 150, 151, 151, 151, 151, 151, 151, 151, 152, 152, 152, 153, 153, 153, 153, 153, 153, 153, 154, 154, 154, 154, 154, 154, 155, 155, 155, 155, 155, 155, 155, 155, 155, 156, 156, 156, 156, 156, 156, 156, 157, 157, 157, 157, 157, 157, 158, 158, 158, 159, 159, 159, 159, 159, 159, 160, 160, 160, 161, 161, 161, 161, 162, 162, 162, 162, 163, 163, 163, 163, 164, 164, 164, 165, 165, 165, 166, 166, 166, 166, 167, 167, 167, 168, 168, 168, 168, 168, 168, 168, 168, 168, 168, 169, 170, 170, 170, 170, 170, 170, 171, 171, 171, 171, 171, 171, 172, 172, 172, 172, 172, 173, 173, 173, 174, 174, 174, 174, 174, 174, 174, 174, 175, 175, 175, 175, 175, 175, 175, 175, 175, 176, 176, 176, 176, 176, 177, 178, 178, 178, 178, 178, 178, 179, 179, 179, 179, 179, 179, 180, 180, 180, 180, 180, 180, 180, 180, 180, 181, 182, 182, 183, 183, 184, 184, 185, 185, 185, 185, 185, 185, 185, 185, 186, 186, 186, 186, 186, 186, 187, 187, 187, 187, 188, 188, 188, 188, 189, 189, 189, 190, 190, 190, 191, 191, 191, 191, 191, 191, 191, 192, 192, 192, 192, 192, 192, 192, 192, 193, 193, 195, 195, 195, 195, 195, 195, 195, 196, 196, 197, 197, 197, 198, 198, 198, 198, 198, 198, 198, 198, 199, 199, 199, 200, 200, 200, 200, 201, 202, 202, 202, 202, 202, 203, 203, 203, 204, 204, 204, 204, 205, 205, 205, 205, 205, 205, 205, 206, 206, 206, 206, 206, 207, 207, 207, 208, 208, 208, 209, 209, 209, 210, 210, 210, 210, 210, 211, 211, 211, 211, 212, 212, 212, 212, 212, 213, 213, 213, 213, 213, 213, 213, 213, 214, 214, 214, 214, 214, 215, 215, 216, 216, 216, 216, 216, 217, 217, 217, 217, 217, 218, 218, 218, 218, 219, 219, 219, 219, 220, 221, 221, 221, 221, 222, 222, 222, 223, 223, 223, 223, 224, 224, 224, 225, 225, 225, 226, 226, 226, 226, 226, 227, 227, 227, 227, 228, 228, 228, 229, 229, 229, 229, 229, 229, 230, 230, 230, 230, 230, 230, 231, 231, 231, 231, 233, 233, 233, 233, 234, 234, 234, 235, 235, 235, 235, 235, 235, 236, 236, 237, 238, 239, 239, 239, 240, 241, 241, 242, 242, 242, 242, 242, 243, 243, 243, 243, 244, 245, 245, 246, 246, 246, 247, 247, 247, 247, 247, 248, 248, 248, 249, 249, 249, 250, 251, 251, 251, 251, 251, 252, 252, 252, 252, 252, 253, 253, 253, 253, 254, 254, 254, 254, 255, 255, 256, 256, 256, 256, 256, 257, 257, 257, 258, 258, 258, 259, 260, 260, 261, 262, 263, 263, 264, 264, 264, 264, 266, 266, 267, 267, 267, 268, 268, 268, 269, 269, 269, 269, 270, 270, 271, 271, 272, 272, 272, 272, 273, 273, 274, 274, 274, 274, 275, 275, 276, 276, 276, 277, 277, 277, 278, 278, 278, 278, 278, 278, 279, 279, 279, 280, 280, 281, 281, 282, 282, 282, 282, 283, 284, 284, 284, 284, 284, 285, 285, 285, 286, 286, 286, 287, 287, 287, 288, 288, 289, 289, 290, 290, 290, 290, 291, 291, 292, 292, 292, 292, 292, 292, 292, 293, 293, 293, 293, 293, 293, 295, 295, 296, 296, 296, 296, 296, 296, 296, 297, 297, 298, 298, 298, 298, 299, 299, 299, 300, 300, 301, 301, 301, 301, 302, 302, 302, 302, 303, 304, 304, 305, 305, 305, 306, 307, 307, 307, 307, 308, 309, 309, 309, 309, 309, 310, 310, 310, 311, 311, 311, 311, 312, 312, 314, 314, 315, 315, 315, 316, 316, 316, 316, 317, 317, 318, 318, 318, 318, 319, 319, 319, 320, 320, 321, 321, 321, 322, 323, 323, 324, 324, 324, 324, 325, 325, 325, 326, 326, 326, 326, 326, 327, 327, 327, 327, 327, 327, 327, 328, 329, 329, 330, 330, 330, 331, 331, 331, 333, 333, 334, 334, 334, 334, 335, 335, 336, 336, 336, 336, 336, 337, 337, 337, 337, 338, 338, 338, 338, 339, 339, 339, 340, 340, 341, 341, 341, 341, 343, 343, 343, 343, 345, 345, 345, 346, 346, 348, 348, 348, 349, 349, 349, 349, 350, 351, 351, 352, 352, 352, 354, 354, 355, 355, 356, 356, 357, 357, 357, 357, 359, 360, 360, 361, 361, 361, 362, 362, 364, 365, 365, 366, 368, 369, 370, 371, 371, 372, 373, 374, 374, 374, 375, 375, 375, 376, 377, 378, 378, 380, 381, 381, 382, 382, 382, 382, 382, 383, 383, 383, 384, 385, 385, 387, 387, 388, 388, 388, 388, 389, 390, 390, 391, 391, 391, 391, 391, 392, 392, 392, 393, 393, 393, 393, 394, 394, 395, 395, 395, 395, 397, 397, 397, 397, 398, 398, 398, 399, 399, 399, 400, 401, 401, 401, 402, 402, 402, 403, 403, 403, 403, 404, 405, 405, 406, 407, 408, 408, 408, 408, 408, 410, 411, 414, 414, 415, 416, 416, 416, 417, 417, 418, 419, 419, 419, 420, 421, 422, 424, 425, 426, 426, 426, 427, 428, 429, 431, 431, 431, 432, 434, 434, 435, 435, 435, 436, 436, 436, 437, 438, 439, 439, 441, 441, 441, 442, 442, 442, 442, 443, 444, 444, 445, 445, 445, 446, 448, 448, 449, 450, 450, 451, 451, 452, 452, 452, 453, 453, 454, 455, 455, 455, 455, 456, 456, 457, 458, 458, 458, 459, 459, 459, 459, 460, 460, 460, 460, 461, 461, 461, 461, 461, 462, 462, 463, 464, 465, 465, 466, 467, 467, 468, 468, 468, 468, 470, 471, 472, 472, 472, 473, 474, 475, 476, 476, 476, 479, 480, 481, 482, 482, 484, 484, 485, 486, 487, 488, 488, 489, 490, 490, 492, 492, 493, 494, 494, 495, 495, 495, 495, 495, 496, 496, 497, 500, 501, 501, 501, 501, 501, 501, 502, 502, 503, 503, 506, 506, 508, 509, 509, 510, 510, 510, 511, 511, 512, 513, 513, 514, 514, 514, 514, 515, 515, 515, 515, 517, 517, 520, 520, 520, 520, 520, 521, 521, 521, 522, 522, 523, 523, 524, 524, 526, 528, 528, 529, 530, 530, 532, 532, 534, 535, 535, 536, 537, 537, 538, 538, 539, 539, 540, 541, 541, 541, 542, 542, 542, 543, 543, 543, 543, 545, 546, 546, 547, 547, 548, 548, 548, 549, 549, 550, 550, 551, 554, 555, 555, 555, 556, 556, 557, 557, 557, 558, 559, 559, 560, 560, 561, 561, 561, 561, 561, 563, 563, 563, 563, 564, 565, 568, 568, 569, 569, 570, 570, 570, 570, 570, 570, 570, 571, 572, 573, 574, 574, 574, 577, 578, 579, 579, 579, 579, 580, 582, 582, 582, 583, 583, 584, 586, 586, 586, 589, 590, 592, 592, 593, 593, 593, 594, 594, 594, 595, 596, 598, 598, 599, 601, 602, 606, 606, 606, 608, 609, 611, 611, 613, 613, 615, 615, 616, 616, 618, 618, 618, 618, 619, 620, 620, 622, 623, 624, 624, 626, 627, 628, 629, 631, 631, 631, 632, 632, 632, 632, 632, 633, 634, 636, 637, 638, 638, 639, 640, 640, 641, 641, 642, 643, 645, 646, 649, 649, 650, 650, 650, 651, 651, 652, 652, 655, 655, 655, 656, 658, 658, 658, 659, 659, 661, 661, 661, 662, 663, 663, 665, 665, 665, 666, 667, 667, 667, 668, 669, 669, 670, 671, 672, 672, 672, 673, 675, 676, 677, 678, 679, 680, 680, 681, 683, 684, 688, 690, 690, 692, 693, 693, 694, 695, 696, 698, 698, 699, 699, 699, 700, 701, 702, 702, 703, 703, 704, 706, 706, 706, 707, 708, 709, 712, 712, 712, 713, 714, 715, 715, 715, 715, 716, 717, 719, 719, 721, 724, 726, 726, 726, 728, 733, 733, 735, 736, 738, 739, 741, 741, 744, 745, 745, 746, 747, 748, 748, 749, 749, 751, 752, 752, 752, 753, 754, 755, 756, 756, 760, 762, 768, 769, 769, 771, 774, 775, 775, 776, 777, 777, 780, 780, 782, 783, 785, 785, 785, 787, 787, 787, 788, 789, 789, 791, 792, 793, 795, 795, 796, 796, 796, 796, 797, 798, 799, 800, 800, 800, 801, 801, 802, 802, 804, 805, 805, 805, 806, 808, 808, 808, 808, 808, 809, 811, 811, 814, 814, 814, 817, 818, 818, 818, 820, 823, 824, 824, 826, 827, 830, 830, 830, 831, 832, 834, 835, 838, 840, 842, 843, 845, 846, 847, 850, 853, 853, 853, 853, 855, 855, 855, 856, 858, 859, 860, 863, 865, 865, 866, 866, 868, 869, 873, 874, 876, 879, 879, 879, 879, 880, 880, 882, 882, 883, 886, 886, 886, 887, 887, 888, 888, 888, 889, 889, 892, 895, 895, 897, 897, 899, 899, 900, 901, 905, 911, 912, 913, 913, 915, 916, 917, 917, 917, 919, 920, 922, 926, 927, 927, 928, 928, 930, 930, 933, 936, 938, 938, 938, 939, 939, 940, 942, 943, 943, 945, 945, 946, 948, 948, 949, 950, 951, 953, 954, 954, 956, 956, 956, 958, 961, 962, 962, 964, 964, 967, 968, 969, 971, 971, 971, 973, 976, 977, 977, 980, 980, 982, 984, 984, 986, 987, 988, 989, 990, 991, 991, 991, 993, 993, 996, 997, 998, 1002, 1003, 1003, 1005, 1007, 1007, 1010, 1010, 1012, 1017, 1018, 1021, 1024, 1025, 1026, 1026, 1028, 1029, 1030, 1032, 1033, 1034, 1037, 1042, 1043, 1043, 1046, 1048, 1050, 1051, 1052, 1053, 1058, 1060, 1063, 1066, 1069, 1070, 1071, 1073, 1073, 1073, 1075, 1077, 1079, 1080, 1081, 1081, 1081, 1084, 1084, 1087, 1088, 1090, 1090, 1090, 1090, 1093, 1095, 1096, 1096, 1098, 1099, 1099, 1101, 1101, 1104, 1107, 1107, 1107, 1108, 1108, 1109, 1111, 1111, 1115, 1118, 1119, 1120, 1121, 1122, 1125, 1125, 1126, 1126, 1131, 1132, 1133, 1133, 1133, 1135, 1137, 1137, 1137, 1138, 1140, 1143, 1143, 1144, 1147, 1149, 1152, 1152, 1153, 1154, 1154, 1155, 1156, 1158, 1159, 1159, 1160, 1160, 1161, 1162, 1163, 1165, 1166, 1168, 1169, 1169, 1173, 1173, 1175, 1177, 1177, 1178, 1178, 1182, 1182, 1183, 1184, 1185, 1187, 1187, 1188, 1189, 1198, 1202, 1205, 1207, 1207, 1207, 1210, 1210, 1211, 1211, 1214, 1215, 1216, 1217, 1217, 1219, 1221, 1221, 1222, 1224, 1226, 1228, 1229, 1230, 1231, 1232, 1233, 1234, 1235, 1235, 1238, 1240, 1243, 1244, 1244, 1244, 1245, 1245, 1249, 1250, 1253, 1262, 1264, 1269, 1272, 1273, 1273, 1274, 1276, 1279, 1286, 1287, 1290, 1291, 1296, 1298, 1300, 1302, 1303, 1305, 1305, 1306, 1308, 1311, 1312, 1312, 1317, 1317, 1319, 1320, 1321, 1321, 1326, 1328, 1331, 1332, 1337, 1338, 1342, 1342, 1343, 1343, 1346, 1347, 1347, 1348, 1349, 1352, 1353, 1354, 1355, 1355, 1355, 1361, 1361, 1365, 1366, 1371, 1371, 1373, 1376, 1379, 1379, 1382, 1384, 1384, 1393, 1394, 1396, 1398, 1400, 1402, 1403, 1407, 1411, 1411, 1414, 1419, 1422, 1424, 1425, 1426, 1426, 1426, 1427, 1428, 1430, 1431, 1431, 1432, 1433, 1435, 1436, 1437, 1441, 1441, 1447, 1448, 1452, 1452, 1453, 1454, 1455, 1458, 1462, 1464, 1466, 1468, 1468, 1468, 1468, 1476, 1477, 1478, 1479, 1480, 1481, 1484, 1485, 1486, 1486, 1489, 1489, 1495, 1496, 1496, 1498, 1498, 1499, 1504, 1510, 1510, 1514, 1515, 1516, 1521, 1523, 1524, 1534, 1536, 1539, 1544, 1545, 1554, 1555, 1555, 1556, 1557, 1557, 1559, 1562, 1565, 1565, 1565, 1567, 1576, 1577, 1578, 1578, 1580, 1583, 1588, 1597, 1599, 1600, 1604, 1609, 1609, 1611, 1614, 1615, 1618, 1622, 1622, 1626, 1627, 1628, 1630, 1633, 1633, 1639, 1641, 1647, 1648, 1651, 1656, 1659, 1664, 1665, 1666, 1669, 1673, 1674, 1675, 1681, 1684, 1684, 1685, 1687, 1690, 1692, 1697, 1697, 1699, 1701, 1707, 1710, 1711, 1713, 1713, 1714, 1716, 1719, 1719, 1723, 1724, 1724, 1725, 1727, 1734, 1739, 1745, 1751, 1752, 1755, 1756, 1762, 1768, 1770, 1772, 1773, 1781, 1782, 1782, 1792, 1792, 1793, 1795, 1795, 1798, 1805, 1806, 1808, 1818, 1819, 1823, 1826, 1831, 1842, 1851, 1853, 1854, 1855, 1857, 1858, 1860, 1862, 1864, 1864, 1865, 1865, 1875, 1877, 1879, 1880, 1885, 1892, 1897, 1900, 1903, 1916, 1918, 1918, 1921, 1923, 1930, 1934, 1934, 1938, 1945, 1949, 1951, 1954, 1958, 1962, 1964, 1964, 1964, 1967, 1978, 1983, 1985, 1986, 1990, 1990, 1992, 1997, 1998, 2004, 2023, 2023, 2028, 2032, 2033, 2034, 2035, 2036, 2036, 2038, 2040, 2042, 2045, 2052, 2054, 2057, 2058, 2062, 2068, 2070, 2074, 2079, 2080, 2084, 2093, 2102, 2102, 2104, 2110, 2110, 2112, 2114, 2126, 2126, 2136, 2143, 2146, 2147, 2154, 2167, 2171, 2177, 2177, 2187, 2194, 2203, 2211, 2216, 2229, 2229, 2231, 2240, 2248, 2251, 2253, 2253, 2255, 2257, 2261, 2266, 2274, 2285, 2286, 2288, 2297, 2301, 2307, 2318, 2321, 2322, 2325, 2329, 2336, 2336, 2342, 2351, 2353, 2353, 2358, 2364, 2368, 2368, 2370, 2380, 2380, 2387, 2389, 2391, 2394, 2394, 2403, 2404, 2411, 2416, 2421, 2424, 2433, 2449, 2459, 2466, 2467, 2469, 2470, 2476, 2477, 2480, 2481, 2483, 2483, 2494, 2498, 2500, 2519, 2521, 2525, 2537, 2538, 2542, 2544, 2556, 2557, 2563, 2573, 2576, 2577, 2582, 2587, 2591, 2594, 2597, 2602, 2608, 2614, 2623, 2635, 2637, 2639, 2640, 2651, 2655, 2670, 2679, 2687, 2691, 2712, 2713, 2720, 2722, 2724, 2728, 2729, 2731, 2753, 2753, 2757, 2758, 2759, 2765, 2773, 2786, 2786, 2795, 2801, 2802, 2826, 2833, 2847, 2851, 2853, 2870, 2878, 2890, 2894, 2907, 2920, 2937, 2939, 2945, 2951, 2957, 2958, 2984, 3029, 3032, 3040, 3044, 3046, 3047, 3072, 3084, 3090, 3111, 3112, 3119, 3164, 3164, 3180, 3203, 3210, 3220, 3231, 3233, 3271, 3336, 3347, 3377, 3383, 3407, 3437, 3444, 3446, 3472, 3479, 3483, 3495, 3503, 3510, 3559, 3653, 3754, 3849, 3863, 3926, 3956, 3976, 3997, 4037, 4153, 4154, 4164, 4326, 4355, 4357, 4363, 4437, 4475, 4497, 4544, 4626, 4758, 4772, 4796, 4871, 4890, 4901, 4905, 5032, 5048, 5155, 5250, 5656, 5676, 5679, 5685, 6040, 6256, 9456, 11071])
 
 # plt.axis([0, 3150, 1, 800])
 

diff --git a/README.md b/README.md
@@ -1,4 +1,8 @@
-# Processing a word log file
+# Soujian
+The project aims to understand the usefulness of a log file. 
+
+
+## Processing a word log file
 
 Steps:
 - clean \" to 

diff --git a/Fig/README.md b/Fig/README.md
@@ -1,0 +1,2 @@
+- Search per user
+- Zoomed search per user
